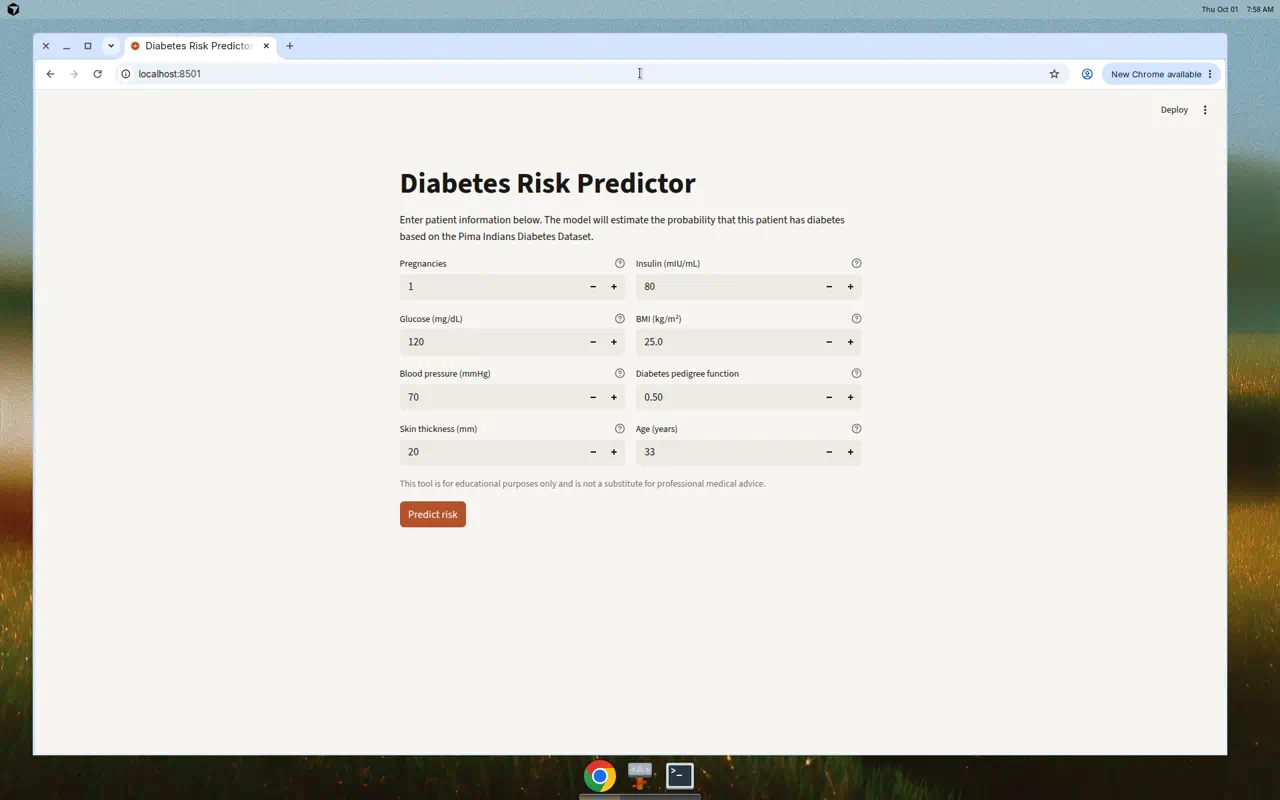
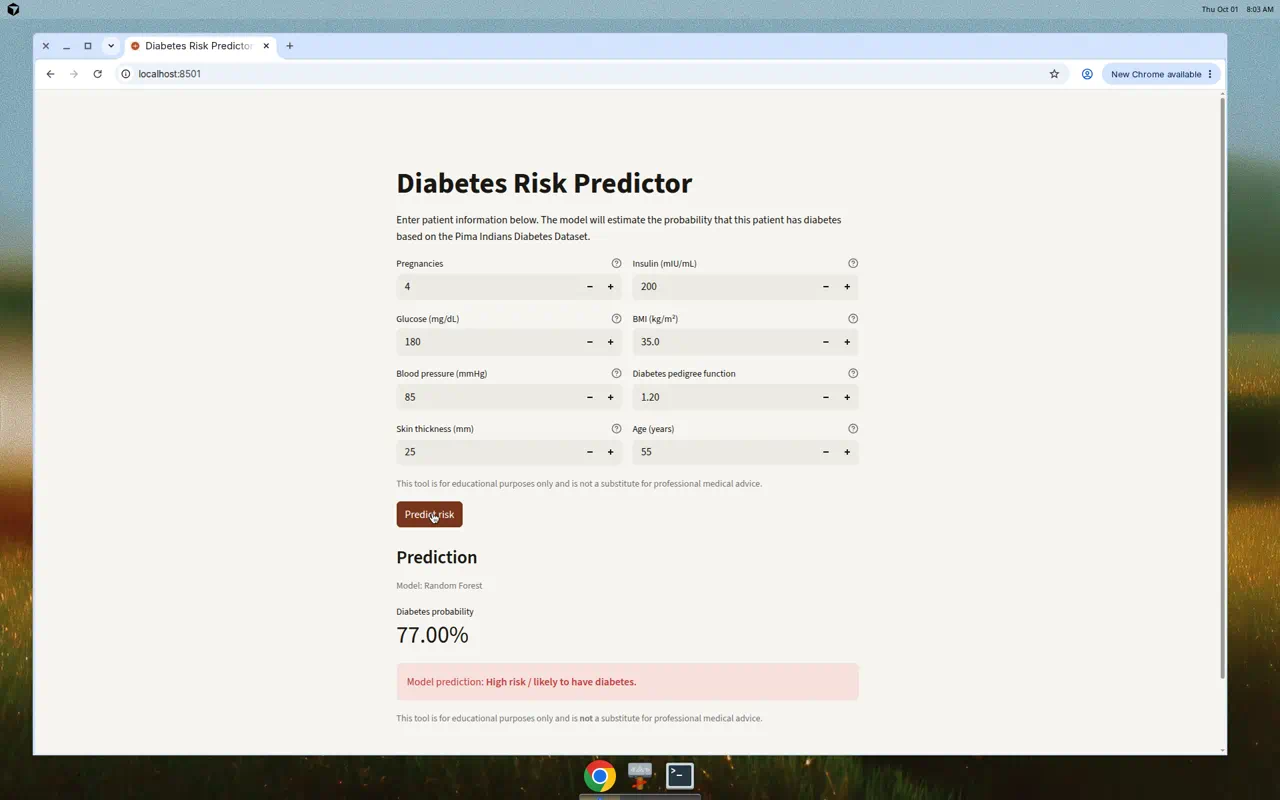
Design: metric display, minimal toolbar, README screenshot with prediction
- Model name as caption; probability metric with explicit delta=None
- Shorter metric label to avoid truncation
- client.toolbarMode minimal in Streamlit config
- Refresh README screenshot showing live prediction output

diff --git a/app.py b/app.py
@@ -141,9 +141,12 @@ if st.button("Predict risk", type="primary"):
 
     st.subheader("Prediction")
 
+    st.caption("Model: Random Forest")
+    probability_pct = prob_diabetes * 100.0
     st.metric(
-        label="Estimated probability of diabetes",
-        value=f"{prob_diabetes:.2%}",
+        label="Diabetes probability",
+        value=f"{probability_pct:.2f}%",
+        delta=None,
     )
 
     if pred_class == 1:
